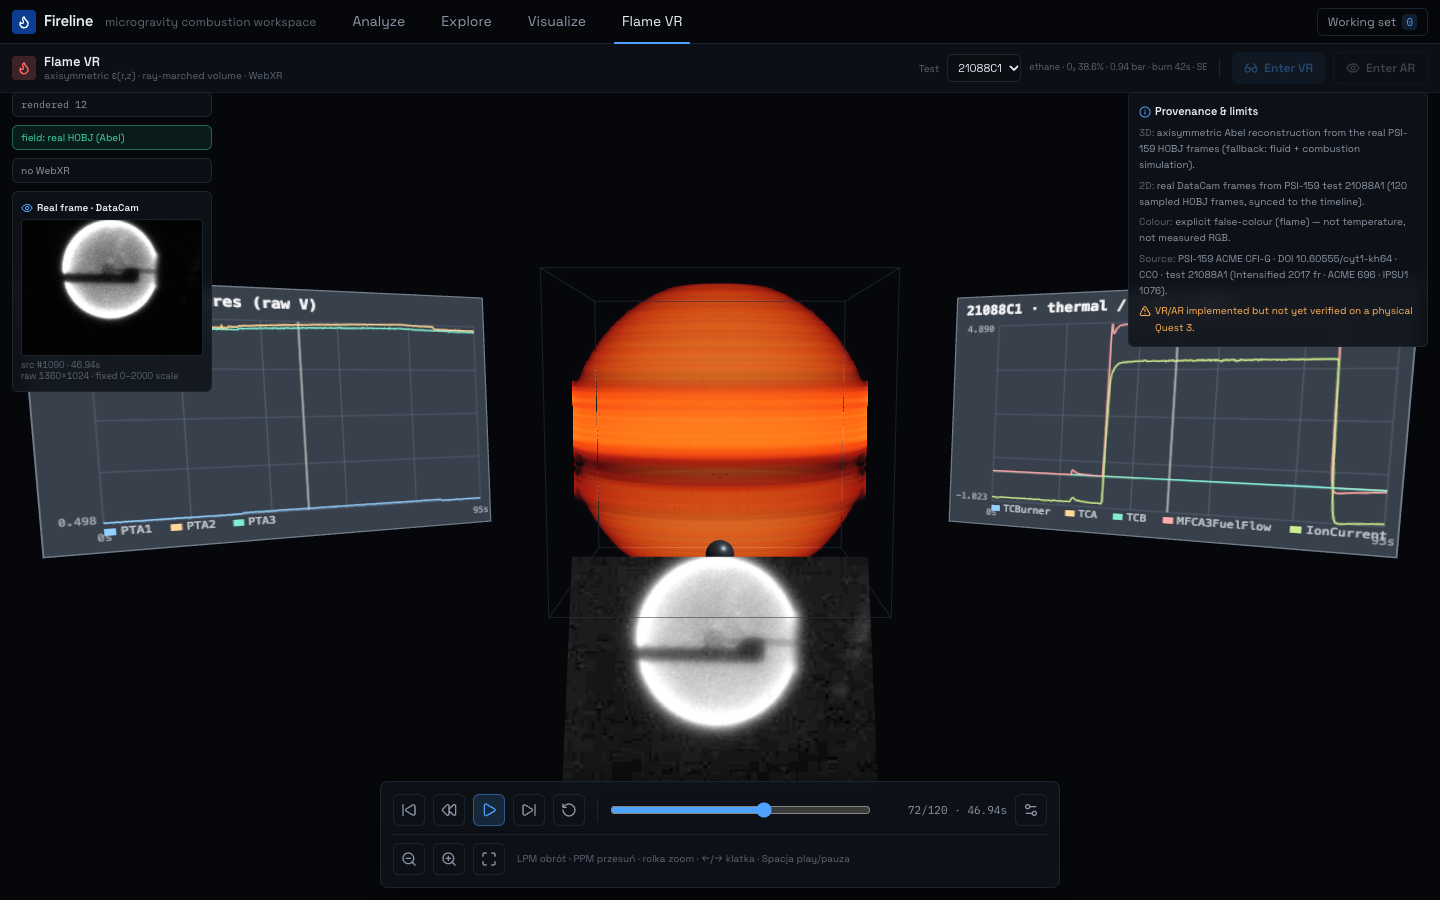
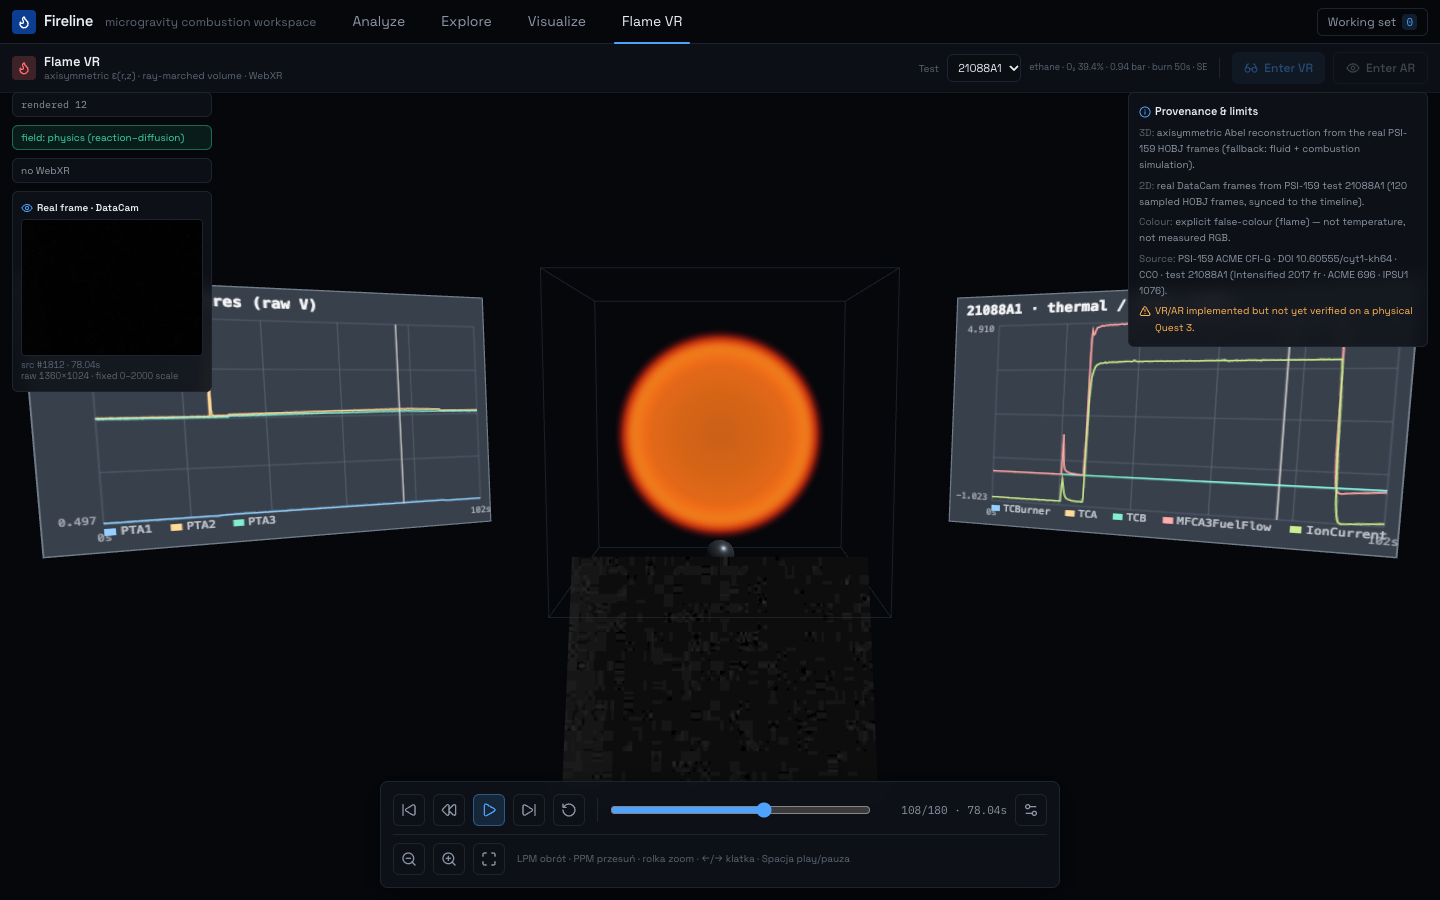
Add physics-based microgravity flame model
- New flamePhysics.ts: Burke-Schumann diffusion-flame shell (mixture
  fraction from the spherical burner) plus a relaxation ('cool-flame')
  limit cycle so the shell pulses and re-ignites like the INTNS light
  curves (C1 bursts ~2.2 s, B1 late flare, A1 flicker).
- Engine: setPhysicsFlame() builds the sequence from the current test's
  conditions (O2 fraction, pressure, burn seconds) and uses low density
  so the raymarch shows limb brightening (a ring, not a filled ball).
- UI: 'Physics model' button and ?model=physics URL switch; status chip
  now distinguishes real INTNS (Abel) / physics / fallback.

diff --git a/app/src/features/vr/flamePhysics.ts b/app/src/features/vr/flamePhysics.ts
@@ -1,0 +1,136 @@
+/* ————————————————————————————————————————————————————————————
+   Physics-based microgravity flame.
+
+   Two coupled ingredients:
+
+   1. SPATIAL — diffusion-flame shell. For a spherical burner feeding
+      oxygen into a fuel atmosphere the mixture fraction is the steady
+      solution of ∇²Z = 0:
+
+          Z(ρ) = (1/ρ − 1/R∞) / (1/Rb − 1/R∞)
+
+      The flame sits where Z = Z_st (Burke–Schumann), i.e. at a shell
+      radius ρ_f. Emission is a thin reaction zone around ρ_f plus a hot
+      core at the burner.
+
+   2. TEMPORAL — relaxation ("cool-flame") instability. In microgravity
+      there is no buoyancy to stabilise the flame; fuel accumulates
+      slowly, ignites, burns fast, cools radiatively and re-ignites.
+      That limit cycle is what the INTNS light curves show as bursts
+      (C1: ~2.2 s apart, B1: late flare, A1: flicker).
+
+          fuel' = +fill                       (accumulation)
+          fuel' = −burn                       (deflagration)
+          T'    = +q·burn − k·(T − T∞)        (heat release vs loss)
+
+   The resulting ε(ρ,t) is mapped to the axisymmetric LUT as a sphere:
+   ε(r,z,t) = I(t) · shell(√(r² + y²)).
+   ———————————————————————————————————————————————————————————— */
+
+export interface PhysicsFlameOptions {
+  frames?: number
+  fps?: number
+  /** ambient oxygen mole fraction (CFI-G ~0.39) */
+  oxygen?: number
+  /** chamber pressure [bar] (CFI-G ~0.94) */
+  pressure?: number
+  /** measured burn duration [s] (A1 50, B1 43, C1 42) */
+  burnSeconds?: number
+  /** observed burst interval [s] (C1 ~2.2, A1 ~1.5, B1 ~1.8) */
+  burstPeriod?: number
+}
+
+export interface PhysicsFlameFrame {
+  index: number
+  tMs: number
+  data: Uint8Array
+}
+
+export interface PhysicsFlameSequence {
+  frames: PhysicsFlameFrame[]
+  fps: number
+  globalMax: number
+  kind: 'physics'
+}
+
+const LUT_Z = 256
+const LUT_R = 128
+
+/** relaxation oscillator: returns the normalised heat-release intensity per step */
+function makeBurst(t: number, period: number, phase0: number): number {
+  // sharp deflagration spike followed by a slow cooling tail
+  const phase = ((t / period + phase0) % 1 + 1) % 1
+  const spike = Math.exp(-Math.pow((phase - 0.12) / 0.07, 2))
+  const tail = 0.35 * Math.exp(-Math.max(0, phase - 0.12) / 0.22)
+  const base = 0.18
+  return base + spike + tail
+}
+
+export function simulatePhysicsFlame(opts: PhysicsFlameOptions = {}): PhysicsFlameSequence {
+  const frames = opts.frames ?? 180
+  const fps = opts.fps ?? 12
+  const oxygen = opts.oxygen ?? 0.39
+  const pressure = opts.pressure ?? 0.94
+  const burnSeconds = opts.burnSeconds ?? 50
+  const burstPeriod = opts.burstPeriod ?? 2.2
+
+  // ---- spatial: Burke–Schumann flame sheet ------------------------------
+  const Rb = 0.02
+  // stoichiometric mixture fraction chosen so the shell sits at rho_f ~ 0.3
+  const rhoF = 0.30
+  // flame sheet: Z(rhoF) = Zst, i.e. where O2 and fuel meet stoichiometrically
+  const shellWidth = 0.018 + 0.012 * (0.94 / pressure)
+  const coreWidth = 0.04
+  const coreWeight = 0.07 * (oxygen / 0.39)
+
+  const shellAt = (rho: number): number => {
+    const d = rho - rhoF
+    const shell = Math.exp(-(d * d) / (2 * shellWidth * shellWidth))
+    const core = coreWeight * Math.exp(-((rho - Rb) * (rho - Rb)) / (2 * coreWidth * coreWidth))
+    return shell + core
+  }
+
+  // ---- temporal: relaxation instability --------------------------------
+  // number of bursts across the recording, from the measured period
+  const totalSeconds = frames / fps
+  const bursts = Math.max(1, Math.round(totalSeconds / burstPeriod))
+  const globalPeriod = totalSeconds / bursts
+  const phase0 = 0.0
+
+  const rawFrames: Float32Array[] = []
+  let globalMax = 1e-6
+  const sphere = new Float32Array(LUT_Z * LUT_R)
+
+  for (let f = 0; f < frames; f++) {
+    const t = f / fps
+    // overall envelope: ignition ramp, steady burn, extinction tail
+    const u = frames === 1 ? 0.5 : f / (frames - 1)
+    const burnEnd = 1 - Math.min(0.2, 4 / Math.max(1, burnSeconds))
+    const envelope = u < 0.04 ? u / 0.04 : u > burnEnd ? Math.max(0, (1 - u) / Math.max(1e-6, 1 - burnEnd)) : 1
+    const intensity = makeBurst(t, globalPeriod, phase0) * envelope
+
+    let mx = 0
+    for (let z = 0; z < LUT_Z; z++) {
+      const y = 0.5 - z / (LUT_Z - 1)
+      for (let c = 0; c < LUT_R; c++) {
+        const wr = (c / (LUT_R - 1)) * 0.5
+        const rho = Math.hypot(wr, y)
+        const val = shellAt(rho) * intensity
+        sphere[z * LUT_R + c] = val
+        if (val > mx) mx = val
+      }
+    }
+    rawFrames.push(Float32Array.from(sphere))
+    if (mx > globalMax) globalMax = mx
+  }
+
+  const lutFrames: PhysicsFlameFrame[] = []
+  for (let f = 0; f < rawFrames.length; f++) {
+    const src = rawFrames[f]
+    const data = new Uint8Array(LUT_Z * LUT_R)
+    for (let i = 0; i < data.length; i++) data[i] = Math.min(255, Math.round((src[i] / globalMax) * 255))
+    lutFrames.push({ index: f, tMs: Math.round((f / fps) * 1000), data })
+  }
+
+  return { frames: lutFrames, fps, globalMax, kind: 'physics' }
+}

diff --git a/app/src/features/vr/FlameVrView.tsx b/app/src/features/vr/FlameVrView.tsx
@@ -127,6 +127,15 @@ export function FlameVrView() {
         const frames = framesMeta.frames as RealFrame[]
         setRealFrames(frames)
         engine.setRealLut(buf, lutMeta)
+        if (new URLSearchParams(window.location.search).get('model') === 'physics') {
+          const p = testsRef.current.find((x) => x.id === selectedTest)?.params
+          engine.setPhysicsFlame({
+            oxygen: p?.o2 ?? 0.39,
+            pressure: p?.p ?? 0.94,
+            burnSeconds: p?.burnSec ?? 50,
+            burstPeriod: 2.2,
+          })
+        }
         engine.setFramePreview(`/psi159/${selectedTest}/frames/`, frames.map((f) => f.file))
         if (sensors) engine.setSensors(sensors)
       } catch {
@@ -333,6 +342,20 @@ export function FlameVrView() {
                 >
                   <Flame className="size-3" /> Re-simulate
                 </button>
+                <button
+                  onClick={() => {
+                    const p = tests.find((x) => x.id === selectedTest)?.params
+                    engineRef.current?.setPhysicsFlame({
+                      oxygen: p?.o2 ?? 0.39,
+                      pressure: p?.p ?? 0.94,
+                      burnSeconds: p?.burnSec ?? 50,
+                      burstPeriod: 2.2,
+                    })
+                  }}
+                  className="mt-1 flex h-7 w-full items-center justify-center gap-1.5 rounded-md border border-edge bg-panel2 text-[11px] font-medium text-text transition-colors hover:bg-panel"
+                >
+                  <Flame className="size-3" /> Physics model
+                </button>
               </div>
               <Field label="False colour">
                 <select
@@ -363,8 +386,12 @@ export function FlameVrView() {
         <StatusChip>
           <span className="tnum font-mono">rendered {state?.framesRendered ?? 0}</span>
         </StatusChip>
-        <StatusChip tone={state?.source === 'real' ? 'ok' : 'muted'}>
-          {state?.source === 'real' ? 'field: real HOBJ (Abel)' : 'field: fallback simulation'}
+        <StatusChip tone={state?.source === 'real' || state?.source === 'physics' ? 'ok' : 'muted'}>
+          {state?.source === 'real'
+            ? 'field: real INTNS (Abel)'
+            : state?.source === 'physics'
+              ? 'field: physics (reaction–diffusion)'
+              : 'field: fallback simulation'}
         </StatusChip>
         {state?.presenting ? (
           <StatusChip tone="ok">

diff --git a/app/src/features/vr/flameEngine.ts b/app/src/features/vr/flameEngine.ts
@@ -3,6 +3,7 @@ import { OrbitControls } from 'three/addons/controls/OrbitControls.js'
 import { FLAME_FRAGMENT, FLAME_VERTEX } from './flameShader'
 import { LUT_R, LUT_Z } from './flameField'
 import { simulateFlameSequence, type FlameSimSequence } from './flameSim'
+import { simulatePhysicsFlame, type PhysicsFlameOptions } from './flamePhysics'
 
 /* ————————————————————————————————————————————————————————————
    three.js engine for the axisymmetric flame volume:
@@ -22,7 +23,7 @@ export interface FlameVrState {
   /** +1 = forward, −1 = rewinding */
   direction: 1 | -1
   gravity: number
-  source: 'real' | 'simulation'
+  source: 'real' | 'simulation' | 'physics'
   frameIndex: number
   frameCount: number
   fps: number
@@ -99,7 +100,7 @@ export class FlameEngine {
   private direction: 1 | -1 = 1
   private gravity = 0.8
   private simSeed = 1
-  private source: 'real' | 'simulation' = 'simulation'
+  private source: 'real' | 'simulation' | 'physics' = 'simulation'
   private uploadedA = -1
   private uploadedB = -1
   private lastTick = 0
@@ -413,6 +414,20 @@ export class FlameEngine {
     this.source = 'simulation'
     this.sequence = this.runSimulation()
     this.frameFloat = (this.sequence.frames.length - 1) * INITIAL_FRAME_FRACTION
+    this.uploadedA = -1
+    this.uploadedB = -1
+    this.emitState(true)
+  }
+
+  /** physics-based microgravity flame (diffusion shell + relaxation bursts) */
+  setPhysicsFlame(opts: PhysicsFlameOptions = {}) {
+    const seq = simulatePhysicsFlame({ frames: 180, fps: 12, ...opts })
+    this.sequence = { frames: seq.frames, fps: seq.fps, globalMax: seq.globalMax, kind: 'simulation' }
+    this.source = 'physics'
+    // a thin shell needs unsaturated accumulation to show limb brightening
+    this.setDensity(22)
+    this.setThreshold(0.02)
+    this.frameFloat = (seq.frames.length - 1) * INITIAL_FRAME_FRACTION
     this.uploadedA = -1
     this.uploadedB = -1
     this.emitState(true)
